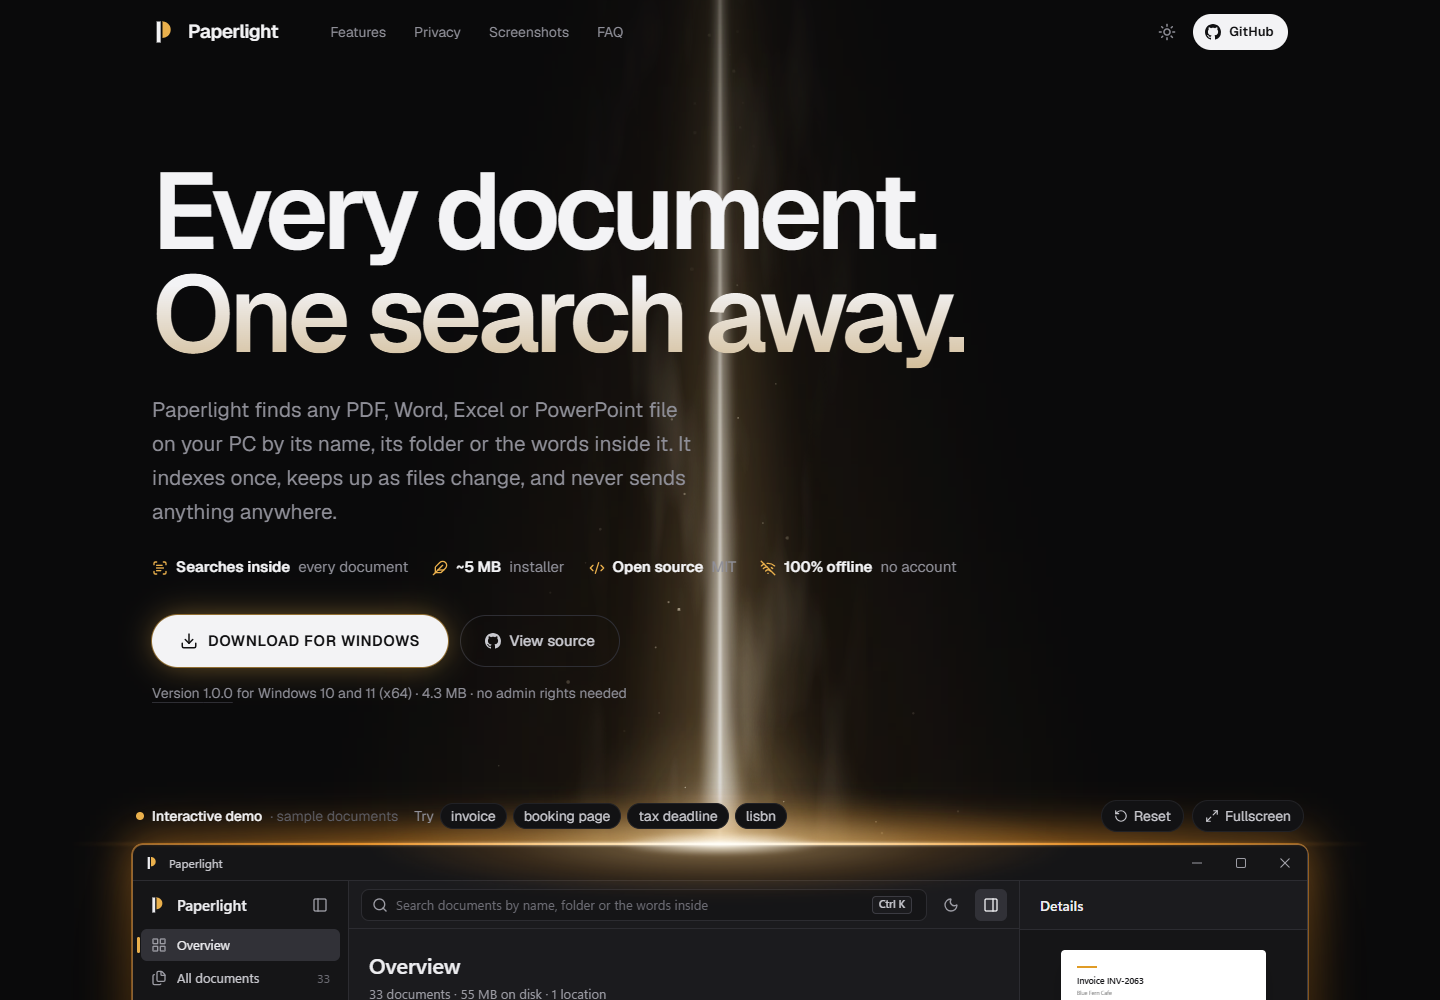
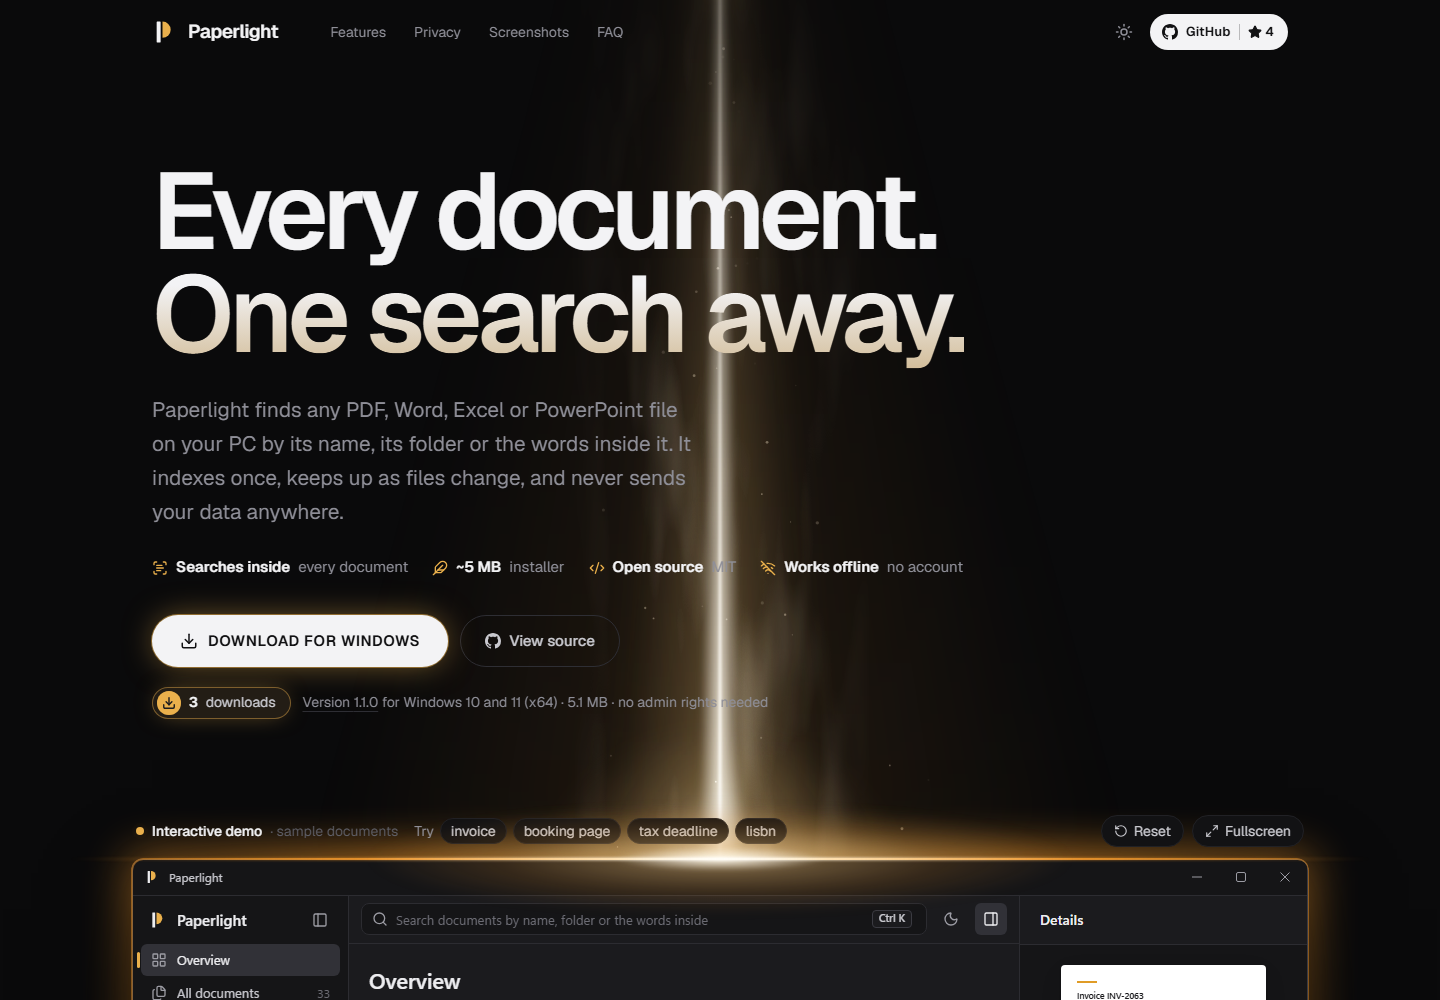
docs: README about Paperlight, with a fresh dark preview
The README now introduces Paperlight itself (what it does, where to get
it) and describes this repo as its website, with a short way to run it.
The deploy button and hosting instructions are gone, and only the dark
preview remains, recaptured from the live site (1.1.0, download count).

diff --git a/README.md b/README.md
@@ -2,59 +2,73 @@
   <img src="public/favicon.svg" width="72" alt="Paperlight logo">
 </p>
 
-<h1 align="center">Paperlight website</h1>
+<h1 align="center">Paperlight</h1>
 
 <p align="center">
-  <b>The landing page for <a href="https://github.com/webKing021/paperlight">Paperlight</a>.</b><br>
-  Every document on your PC, one search away.
+  <b>Every document on your PC, one search away.</b><br>
+  A free, open-source Windows app that finds any PDF, Word, Excel or PowerPoint file<br>
+  by its name, its folder or the words inside it.
 </p>
 
 <p align="center">
-  <a href="https://github.com/webKing021/paperlight"><b>The app</b></a> ·
-  <a href="https://github.com/webKing021/paperlight/releases/latest">Download for Windows</a> ·
-  <a href="#deploy">Deploy</a>
+  <a href="https://paperlight.vercel.app"><b>Website</b></a> ·
+  <a href="https://github.com/webKing021/paperlight/releases/latest"><b>Download for Windows</b></a> ·
+  <a href="https://github.com/webKing021/paperlight">Source code</a>
 </p>
 
 <p align="center">
-  <a href="https://vercel.com/new/clone?repository-url=https://github.com/webKing021/paperlight-website"><img alt="Deploy with Vercel" src="https://vercel.com/button"></a>
+  <a href="https://github.com/webKing021/paperlight/releases/latest"><img alt="Latest release" src="https://img.shields.io/github/v/release/webKing021/paperlight?color=18181b&label=release"></a>
   <a href="LICENSE"><img alt="MIT license" src="https://img.shields.io/badge/license-MIT-e09c26"></a>
 </p>
 
-<picture>
-  <source media="(prefers-color-scheme: light)" srcset="docs/preview-light.png">
-  <img src="docs/preview-dark.png" alt="The Paperlight website: headline, download button and the interactive demo below">
-</picture>
+<img src="docs/preview-dark.png" alt="The Paperlight website: the headline, the download button and the interactive demo of the app">
 
-## What's on it
+## What Paperlight does
 
-- **A live demo.** A working copy of the app with sample documents. Search, typos and all.
-- **Dark and light.** Dark by default; the choice is remembered.
-- **Always current.** Star count and the latest installer come straight from GitHub.
-- **Light to load.** No backend, no tracking, fonts self-hosted.
-- **No dead ends.** Unknown links show a friendly page, never a 404.
+Documents pile up in Downloads, on the Desktop, in project folders and on old drives.
+Paperlight reads them once, keeps up as they change, and puts any of them a few keystrokes away.
 
-## Run it
+- **Search inside documents.** Names, folders and the text of PDF, Word, Excel and PowerPoint
+  files. Prefixes work, typos are forgiven, and the matching passage is highlighted.
+- **Quick search from any app.** Press <kbd>Alt</kbd>+<kbd>Space</kbd>, type a few letters,
+  press <kbd>Enter</kbd>. The document opens.
+- **Always current.** New, renamed, moved and deleted files show up within a second, with no
+  rescans.
+- **Organise without touching files.** Favourites, tags, recently opened and previews live in
+  Paperlight; your files stay exactly where they are.
+- **Duplicates and storage.** Find byte-identical copies and see what takes space. Nothing is
+  ever deleted for you.
+- **Private and light.** Works offline, no telemetry, no account. A ~5 MB installer and about
+  6 MB of memory in the tray.
+- **Updates itself, if you want.** New versions install from inside the app in a few seconds,
+  keeping your index, favourites and tags.
+
+Free for Windows 10 and 11 (64-bit), no admin rights needed.
+[Download the latest version](https://github.com/webKing021/paperlight/releases/latest).
+
+## This repository
+
+The source of Paperlight's website, [paperlight.vercel.app](https://paperlight.vercel.app).
+The app itself lives in [webKing021/paperlight](https://github.com/webKing021/paperlight).
+
+- **An interactive demo.** A working copy of the app with made-up sample documents: search,
+  typos, previews and quick search all work in the browser.
+- **Always up to date.** The version, the installer and the download count come straight
+  from GitHub.
+- **Two moods.** A lamp shining onto the app in the dark theme, morning sun through a window
+  in the light theme.
+- **Nothing to hide.** No tracking, no cookies, fonts served from the site itself.
+
+To run it on your computer:
 
 ```bash
 npm install
-npm run dev      # start locally
-npm run build    # production build in dist/
+npm run dev
 ```
 
-Add `?theme=light` to the URL to preview the light theme.
+Built with React, TypeScript, Tailwind CSS and Vite.
 
-## Deploy
+---
 
-Import the repo on [Vercel](https://vercel.com/new) and press **Deploy**. No settings needed:
-`vercel.json` handles the build, routing and short links (`/download`, `/github`).
-
-## Where things are
-
-| Path | What |
-|---|---|
-| `src/components` | Page sections: hero, features, privacy, FAQ |
-| `src/demo` | The interactive app demo and its sample documents |
-| `public` | Icons, screenshots and the social preview image |
-
-Built with Vite, React, TypeScript and Tailwind CSS. [MIT](LICENSE) licensed.
-Made by [webKing021](https://github.com/webKing021).
+Made by [webKing021](https://github.com/webKing021) and [Opus 5.5](https://www.anthropic.com/claude).
+[MIT](LICENSE) licensed.
